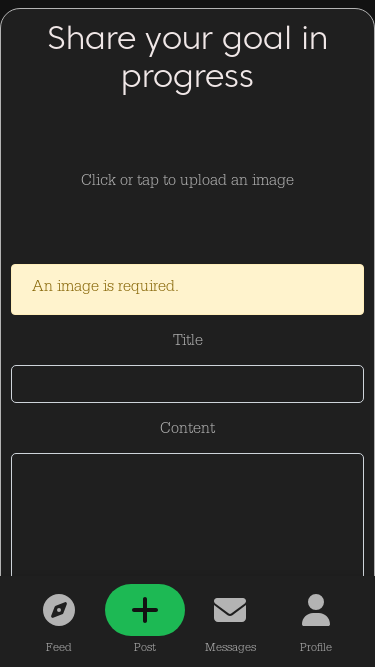
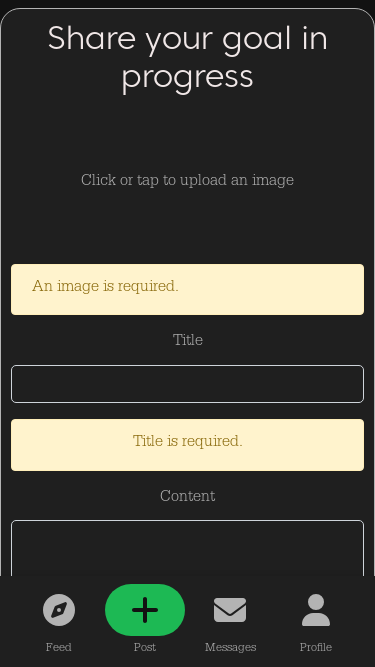
Enhance create post validation tests with image and title validation

Changed region(s): [[0.0293, 0.6297, 0.968, 0.7496]]

diff --git a/frontend/playwright/validation-tests/createPost.spec.js b/frontend/playwright/validation-tests/createPost.spec.js
@@ -108,5 +108,73 @@ test.describe('Create Post Process', () => {
       await captureScreenshot(page, 'create-post', 'image-upload-failed');
       throw error;
     }
+
+    // Test: Submit with image but no title
+
+    await page.fill('input[name="title"]', ''); // Clear the title
+    await page.evaluate(() => {
+      const submitButton = document.querySelector('button[type="submit"]');
+      if (submitButton) submitButton.click();
+    });
+    await page.waitForSelector('.alert-warning', { state: 'visible' });
+    await captureScreenshot(page, 'create-post', 'image-no-title');
+    console.log('Captured screenshot for image uploaded but no title alert');
+
+    const titleError = await page.textContent('.alert-warning');
+    expect(titleError).toBeTruthy();
+    console.log('Verified error message presence for missing title');
+
+    console.log('Create post validation tests completed');
+
+
+    // Upload a non-image file (.txt)
+    console.log('Testing upload of non-image file');
+    console.log(`Navigating to ${BASE_URL}/posts/create`);
+    await page.goto(`${BASE_URL}/posts/create`);
+    const badFileInput = await page.$('input[type="file"]#image-upload');
+    expect(badFileInput).toBeTruthy();
+
+    const txtFilePath = path.join(__dirname, './test-assets/test-file.txt');
+    console.log('Text file path:', txtFilePath);
+
+    await page.fill('input[name="title"]', 'uploaded a text file');
+    
+    // Check if file exists
+    if (fs.existsSync(txtFilePath)) {
+      console.log('Text file exists');
+    } else {
+      console.error('Text file does not exist');
+      throw new Error('Text file not found');
+    }
+
+    await badFileInput.setInputFiles(txtFilePath);
+
+    // Trigger change event
+    await page.evaluate(() => {
+      const input = document.querySelector('input[type="file"]#image-upload');
+      input.dispatchEvent(new Event('change', { bubbles: true }));
+    });
+
+    // Verify that an error message is displayed for non-image file
+    console.log('Verifying error message for non-image file');
+    try {
+      await page.waitForSelector('.alert-warning', { state: 'visible', timeout: 5000 });
+      const errorMessage = await page.textContent('.alert-warning');
+      expect(errorMessage).toContain('Please upload an image file');
+      console.log('Error message for non-image file verified');
+
+      await captureScreenshot(page, 'create-post', 'non-image-file-error');
+    } catch (error) {
+      console.error('Non-image file error verification failed:', error);
+      await captureScreenshot(page, 'create-post', 'non-image-file-error-failed');
+      throw error;
+    }
+
+    // Verify that the image preview is not visible
+    const imagePreview = await page.$('img.Image');
+    expect(imagePreview).toBeNull();
+    console.log('Confirmed no image preview for non-image file');
+
+    console.log('Create post validation tests completed');
   });
 });

diff --git a/frontend/src/pages/posts/PostCreateForm.js b/frontend/src/pages/posts/PostCreateForm.js
@@ -57,17 +57,27 @@ function PostCreateForm() {
   const handleSubmit = async (event) => {
     event.preventDefault();
     const formData = new FormData();
-
-    formData.append("title", title);
-    formData.append("content", content);
-
+    const newErrors = {};
+  
+    if (!title.trim()) {
+      newErrors.title = ['Title is required.'];
+    }
+    if (!content.trim()) {
+      newErrors.content = ['Content is required.'];
+    }
     if (imageInput.current.files.length === 0) {
-      setErrors({ image: ['An image is required.'] });
+      newErrors.image = ['An image is required.'];
+    }
+  
+    if (Object.keys(newErrors).length > 0) {
+      setErrors(newErrors);
       return;
     }
-
+  
+    formData.append("title", title);
+    formData.append("content", content);
     formData.append("image", imageInput.current.files[0]);
-
+  
     try {
       const { data } = await axiosReq.post("/posts/", formData);
       history.push(`/posts/${data.id}`);
